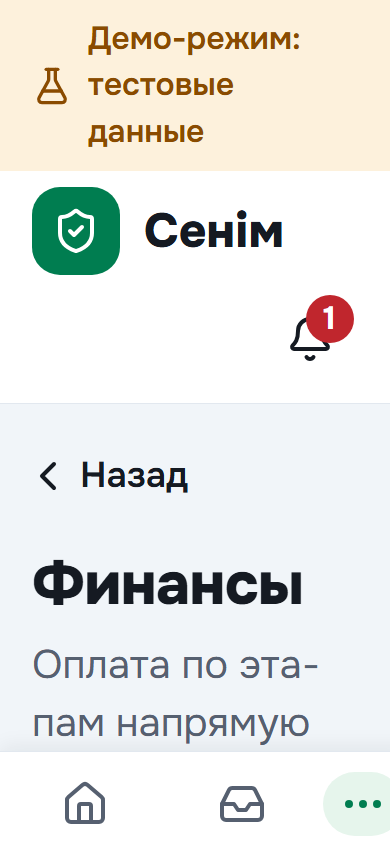
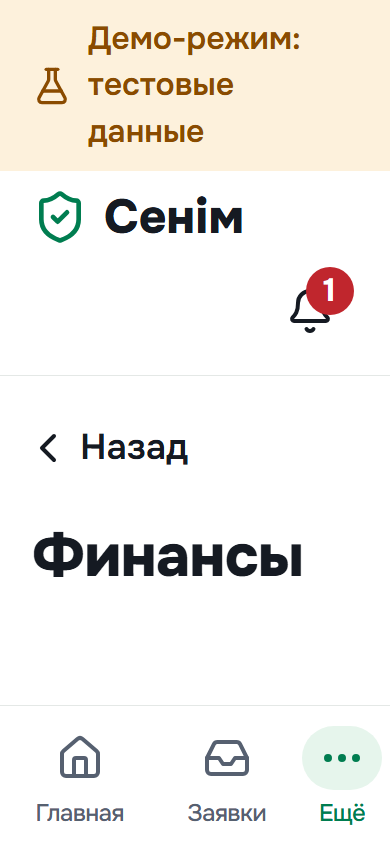
docs(design): «Финансы» по месяцам — скриншоты и отступления от макета 12
Почему: экран «Финансы» стал «Заработок за месяц» (ответ №34); снимки и таблица
отступлений описывали прежний итог за всё время.
Что: новые executor-finance-390/1280 и -390-font200; в README — описание экрана,
строка отступлений «Стр. 12, Финансы» (стрелки вместо выпадающего месяца, без карточек,
фото и кнопки вывода, почему), пункт «Финансы за период» убран из «Что дальше».
Проверено: снимки сняты capture-roles.mjs с сервера 3120 (BASE_URL, вывод в scratchpad
через OUT_DIR, скопированы только три файла «Финансов»); просмотрены глазами.

diff --git a/docs/design/README.md b/docs/design/README.md
@@ -109,9 +109,11 @@
   «Ваш отклик» — форма отклика, итоговая цена замера, «Сделка не состоялась», проект на «Утверждение проекта».
   На телефоне следующий шаг идёт сразу после фактов.
 - «Мои отклики» (`/executor/offers`, макет 14), «Замеры» (`/executor/measurements`, макет 15) — карточки и чипы.
-- «Финансы» (`/executor/finance`, макет 12, экран 4): только чтение `deal-core.getExecutorFinance` — получено,
-  ожидается (этап пора оплатить: аванс или принятая работа), в работе; в `manual` — «оплата по этапам напрямую вам»,
-  комиссии нет.
+- «Финансы» (`/executor/finance`, макет 12, экран 4; ответ №34): только чтение `deal-core.getExecutorFinance` —
+  «Заработок за <месяц год>» (получено по дате подтверждения оплаты, месяцы по времени Алматы), разница к прошлому
+  месяцу, стрелки «‹ ›» (`?month=ГГГГ-ММ`, от месяца первой оплаты до текущего); ниже «Ожидается» (аванс или
+  принятая работа) и «В работе», оплаты месяца и «Ждут оплаты». Узкая колонка, без карточек и фото — минимализм
+  встречи 31.10; в `manual` — «деньги идут от заказчика напрямую вам», комиссии нет.
 - Портфолио — сетка `PhotoCard`; профиль — шапка, меню разделов и форма в карточках; «Стать заказчиком» — плашка.
 - Замерщик (`/measurer`): карточки с адресом выезда, чипы «Назначены / Выполнены»; на замере — плашка «Адрес выезда».
 - Оператор (`/operator/**`): плитки `Stat`, «Что требует внимания», разделы `LinkList`, списки карточками с
@@ -124,7 +126,7 @@
 | Зелёный `#008454`, зелёный текст на мятном | `#007d50` | на `#008454` зелёный текст на мятном — 4,2:1; на шаг темнее — 4,6:1, и экраны, где зелёный используется как текст, проходят без правок |
 | Серые подписи `#80808a`, подписи 11–14px | `#566070`, ≥ 16px | контраст ≥ 4,5:1 и основной текст ≥ 17–18px — правила проекта |
 | Вкладка «Мои обращения» | «Мои заявки» | слово глоссария и заголовок самой страницы: подпись вкладки и заголовок экрана должны совпадать |
-| Стр. 12, «Финансы»: «Заработок за месяц» с выбором месяца, «Ожидают выплаты / Выплачено», «Вывести средства» | `/executor/finance`: «Получено» (зелёная плитка), «Ожидается по принятым этапам», «В работе»; чипы «Все / Ожидается / В работе / Получено»; оплаты по этапам со ссылкой на сделку; кнопки вывода нет | деньги идут заказчик → исполнитель напрямую (или банк раскрывает транш), площадка ничего не «выплачивает» и не хранит; итог за всё время — разбивки по месяцам пока нет |
+| Стр. 12, «Финансы»: зелёная карточка «Заработок за месяц» с выпадающим месяцем и «5 завершённых заказов», «Ожидают выплаты / Выплачено», вкладки операций, фото в строках, «Вывести средства» | `/executor/finance`: «Заработок за ноябрь 2026» тёмным текстом на фоне, крупная сумма и «+/− … к прошлому месяцу», стрелки «‹ ›» вместо выпадающего списка; «Ожидается» и «В работе» строкой цифр; оплаты месяца и «Ждут оплаты» строками без фото; кнопки вывода нет | деньги идут заказчик → исполнитель напрямую (или банк раскрывает транш), площадка ничего не «выплачивает» и не хранит; стрелки — ссылки 48 px, работают с клавиатуры и без скрипта; минимализм по просьбе владельца (стиль Upwork) — без карточек, фото и вкладок |
 | Стр. 12–13: кнопка «Предложить расчёт» на каждой карточке заявки, «сердечко» избранного, фильтр-воронка | вся карточка — ссылка на заявку, форма отклика — на ней; чипы «Все / Без отклика / Прямые мне» и по типам мебели | одно главное действие на экране; избранного в модели нет; уровень у исполнителя один — чипы по уровню не нужны |
 | Стр. 13: вкладки «Визуализация / Размеры / Материалы», «≈ 8 м²» | одна страница: крупное фото помещения (или иллюстрация вида), плитки «что нужно, уровень, город, срок», «Что в заявке», справа «Ваш отклик» | раздел 6 задания — без вкладок; площади в заявке нет |
 | Стр. 14: «Редактировать предложение», «Подтвердить замер / Предложить другое время», «Контакт: показывается после подтверждения» | «Мои отклики» (`/executor/offers`) со статусом отклика и замера; отклик можно только отозвать; замер назначает сам исполнитель после выбора | ADR-003: отклик не правится; телефон заказчика не раскрывается — договорённость в чате |
@@ -186,7 +188,7 @@ BASE_URL=http://localhost:3120 node docs/design/screens/capture-roles.mjs
 | `client-request-contract-390/1280` | заявка №24 (договор до замера): согласие на договор | 9, экран 1 |
 | `deal-client-390/1280`, `deal-executor-390/1280` | «Мой заказ» — сделка №11 у заказчика и исполнителя | 10 |
 | `deal-done-photos-390/1280` | завершённая сделка №7 с фотоотчётами | 10, 11 |
-| `executor-finance-390/1280`, `executor-finance-390-font200` | «Финансы» исполнителя (Исп. №3) — снимает `capture-roles.mjs`, как и всё ниже | 12, экран 4 |
+| `executor-finance-390/1280`, `executor-finance-390-font200` | «Финансы» исполнителя (Исп. №3): заработок за текущий месяц — снимает `capture-roles.mjs`, как и всё ниже | 12, экран 4 |
 | `executor-request-offer-390/1280` | заявка №19 у Исп. №5: форма отклика | 13 |
 | `executor-request-measure-390/1280` | заявка №17 у Исп. №4: итоговая цена после замера | 15 |
 | `executor-offers-390/1280` | «Мои отклики» | 14 |
@@ -203,7 +205,6 @@ BASE_URL=http://localhost:3120 node docs/design/screens/capture-roles.mjs
 
 - Фото основателей вместо иллюстраций: лендинг (карточки ролей, примеры работ), заглушки карточек.
 - Экраны других зон переходят на `PhotoCard`, `FilterChips`, `Timeline` по мере работы их владельцев.
-- «Финансы» за период (месяц) — когда владелец решит, нужна ли разбивка; сейчас итог за всё время.
 - Вилки цены по уровням от владельца (сейчас — только по настоящим откликам, при трёх и больше).
 - Экран «Утверждение проекта» в демо-данных: нет заявки с проектом на решении заказчика — появится после шагов e2e 04.
 - Значок приложения (`src/app/icon.svg`, `public/icons/*`) — ещё прежнего тёмно-зелёного цвета.
